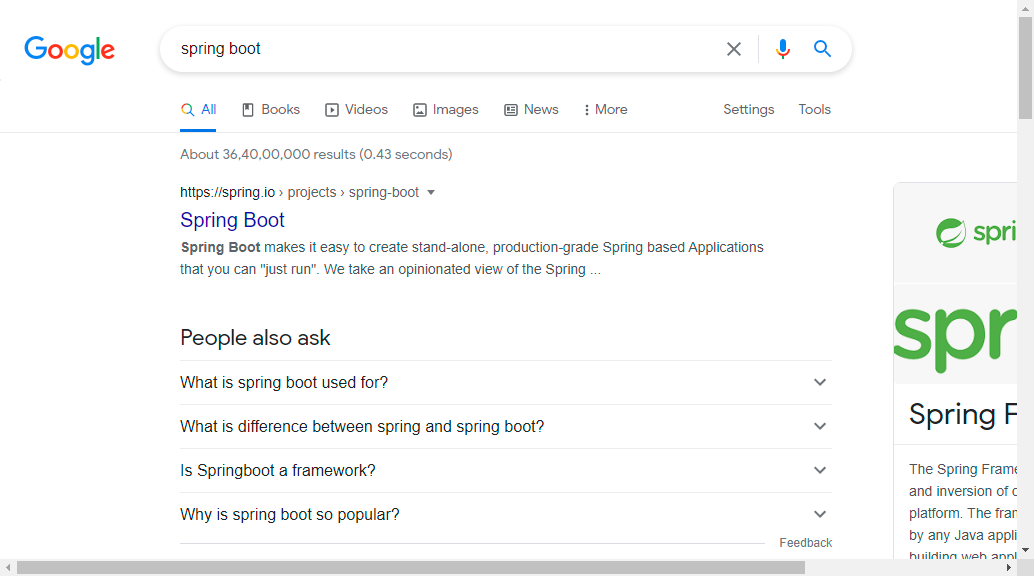
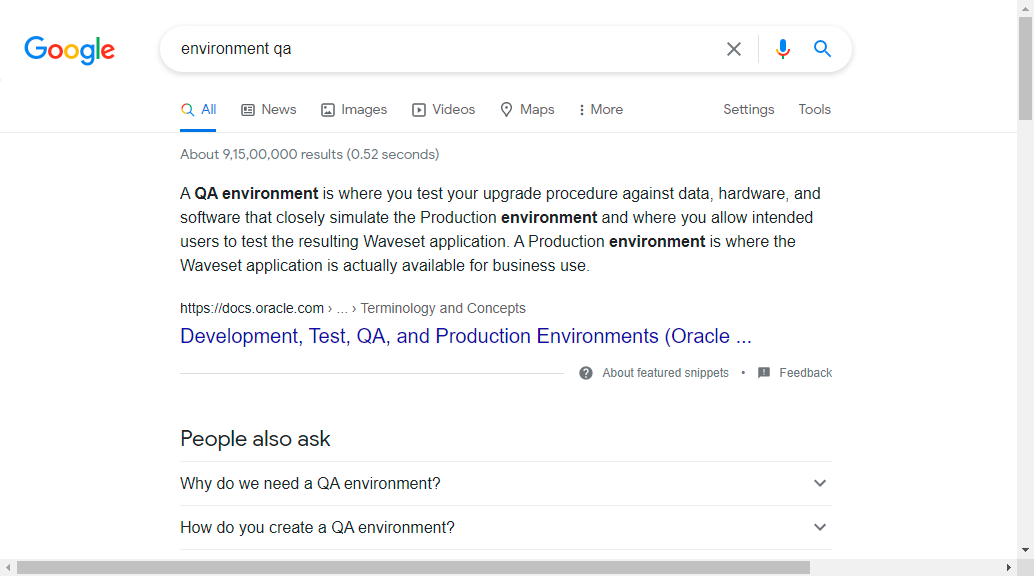
Made changes to code to support profiles

diff --git a/src/main/java/com/accelerator/spring/automationaccelerator/config/RemoteWebDriverConfig.java b/src/main/java/com/accelerator/spring/automationaccelerator/config/RemoteWebDriverConfig.java
@@ -1,0 +1,47 @@
+package com.accelerator.spring.automationaccelerator.config;
+
+import org.openqa.selenium.WebDriver;
+import org.openqa.selenium.remote.DesiredCapabilities;
+import org.openqa.selenium.remote.RemoteWebDriver;
+import org.openqa.selenium.support.ui.WebDriverWait;
+import org.springframework.beans.factory.annotation.Value;
+import org.springframework.boot.autoconfigure.condition.ConditionalOnMissingBean;
+import org.springframework.boot.autoconfigure.condition.ConditionalOnProperty;
+import org.springframework.context.annotation.Bean;
+import org.springframework.context.annotation.Configuration;
+import org.springframework.context.annotation.Lazy;
+import org.springframework.context.annotation.Profile;
+
+import java.net.URL;
+
+@Lazy
+@Configuration
+@Profile("remote")
+public class RemoteWebDriverConfig {
+
+    @Value("${selenium.grid.url}")
+    private URL url;
+
+    @Value("${default.timeout:30}")
+    private int timeout;
+
+    @Bean
+    @ConditionalOnProperty(name="browser",havingValue="firefox")
+    public WebDriver remoteFirefoxDriver(){
+        return new RemoteWebDriver(this.url, DesiredCapabilities.firefox());
+    }
+
+    @Bean
+    @ConditionalOnProperty(name="browser",havingValue="chrome")
+    public WebDriver remoteChromeDriver(){
+        return new RemoteWebDriver(this.url, DesiredCapabilities.chrome());
+    }
+
+    @Bean
+    @ConditionalOnMissingBean
+    public WebDriver remoteDriver(){
+        return new RemoteWebDriver(this.url, DesiredCapabilities.chrome());
+    }
+
+
+}

diff --git a/src/test/java/com/accelerator/spring/automationaccelerator/googletest/GoogleTest.java b/src/test/java/com/accelerator/spring/automationaccelerator/googletest/GoogleTest.java
@@ -3,12 +3,14 @@ package com.accelerator.spring.automationaccelerator.googletest;
 import com.accelerator.spring.automationaccelerator.SpringBaseTestNGTest;
 import com.accelerator.spring.automationaccelerator.config.page.google.GooglePage;
 import com.accelerator.spring.automationaccelerator.util.ScreenShotUtil;
+import com.google.common.util.concurrent.Uninterruptibles;
 import org.springframework.beans.factory.annotation.Autowired;
 import org.springframework.context.annotation.Lazy;
 import org.testng.Assert;
 import org.testng.annotations.Test;
 
 import java.io.IOException;
+import java.util.concurrent.TimeUnit;
 
 public class GoogleTest extends SpringBaseTestNGTest {
 
@@ -24,7 +26,11 @@ public class GoogleTest extends SpringBaseTestNGTest {
     public void googleTest() throws IOException {
         this.googlePage.goTo();
         Assert.assertTrue(this.googlePage.isAt());
-        this.googlePage.getSearchComponent().search("spring boot");
+
+        Uninterruptibles.sleepUninterruptibly(3, TimeUnit.SECONDS);
+
+
+        this.googlePage.getSearchComponent().search("environment ");
         Assert.assertTrue(this.googlePage.getSearchResult().isAt());
         Assert.assertTrue(this.googlePage.getSearchResult().getCount() > 2);
 

diff --git a/src/main/java/com/accelerator/spring/automationaccelerator/config/WebDriverConfig.java b/src/main/java/com/accelerator/spring/automationaccelerator/config/WebDriverConfig.java
@@ -13,12 +13,12 @@ import org.springframework.boot.autoconfigure.condition.ConditionalOnProperty;
 import org.springframework.context.annotation.Bean;
 import org.springframework.context.annotation.Configuration;
 import org.springframework.context.annotation.Primary;
+import org.springframework.context.annotation.Profile;
+
 
 @Configuration
+@Profile("!remote")
 public class WebDriverConfig {
-
-    @Value("${default.timeout:30}")
-    private int timeout;
 
     @Bean
     @ConditionalOnProperty(name="browser",havingValue = "chrome")
@@ -44,13 +44,10 @@ public class WebDriverConfig {
     @Bean
     @ConditionalOnMissingBean
     public WebDriver safariDriver(){
-        WebDriverManager.edgedriver().setup();
-        return new EdgeDriver();
+        WebDriverManager.chromedriver().setup();
+        return new ChromeDriver();
     }
 
-    @Bean
-    public WebDriverWait webDriverWait(WebDriver driver){
-        return new WebDriverWait(driver,this.timeout);
-    }
+
 
 }

diff --git a/src/main/java/com/accelerator/spring/automationaccelerator/config/WebDriverWaitConfig.java b/src/main/java/com/accelerator/spring/automationaccelerator/config/WebDriverWaitConfig.java
@@ -1,0 +1,23 @@
+package com.accelerator.spring.automationaccelerator.config;
+
+
+import org.openqa.selenium.WebDriver;
+import org.openqa.selenium.support.ui.WebDriverWait;
+import org.springframework.beans.factory.annotation.Value;
+import org.springframework.context.annotation.Bean;
+import org.springframework.context.annotation.Configuration;
+import org.springframework.context.annotation.Lazy;
+
+@Lazy
+@Configuration
+public class WebDriverWaitConfig {
+
+
+    @Value("${default.timeout:30}")
+    private int timeout;
+
+    @Bean
+    public WebDriverWait webDriverWait(WebDriver driver){
+        return new WebDriverWait(driver,this.timeout);
+    }
+}
